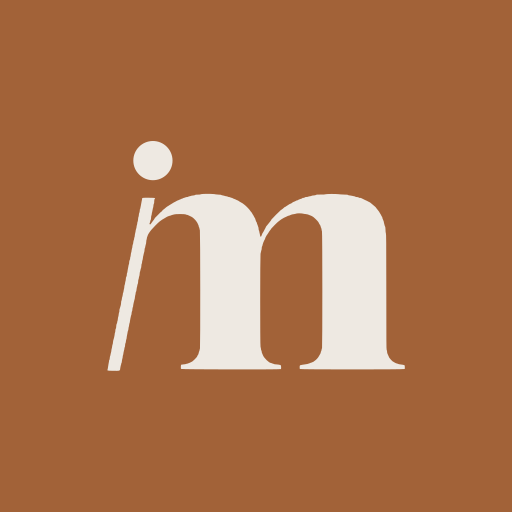
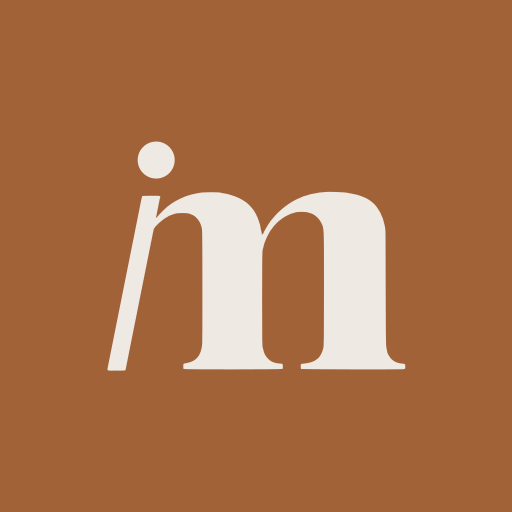
Nuovo sfondo e nuovo monogramma con la "i" più spessa
- Monogramma ritracciato dal nuovo logo (asta della "i" più spessa):
  intro, header, footer, 404, favicon, icone e anteprima social
- Centratura del wordmark sulla "m" ricalcolata per il nuovo monogramma
- Nuovo sfondo a intonaco per intro, navbar e anteprima social, con
  inquadratura centrata sulla zona chiara; file rinominato
  sfondo-intonaco.webp per evitare la cache della versione precedente

diff --git a/src/components/brand/paths.ts b/src/components/brand/paths.ts
@@ -1,10 +1,10 @@
 // File generato da scripts/build-brand.mjs a partire dal logo ufficiale. Non modificare a mano.
 export const MONOGRAM = {
-  viewBox: "0 0 380 296",
-  width: 380,
-  height: 296,
-  dot: "M 38.25 30 A 24.25 24.25 0 1 0 86.75 30 A 24.25 24.25 0 1 0 38.25 30 Z",
-  body: "M 123.9 71.3 C 122.8 71.4, 121.6 71.6, 121.2 71.8 C 120.8 72, 119.7 72.1, 117.8 72.1 C 115.5 72.1, 115 72.2, 114.5 72.6 C 114.2 72.9, 113.5 73.1, 111.9 73.2 C 110.8 73.3, 109.7 73.5, 109.5 73.7 C 109.3 73.8, 108.6 74, 107.9 74.1 C 107.2 74.2, 106.4 74.4, 106.2 74.7 C 105.9 74.9, 105.2 75.1, 104.4 75.1 C 103.5 75.2, 102.8 75.3, 102.6 75.6 C 102.3 75.8, 101.6 76, 100.9 76.1 C 100.3 76.2, 99.6 76.5, 99.5 76.7 C 99.3 76.8, 98.8 77.1, 98.2 77.2 C 97.7 77.2, 97.1 77.5, 97 77.7 C 96.8 77.8, 96.5 78, 96.3 78 C 96 78, 95.5 78.2, 95.2 78.5 C 94.9 78.7, 94.2 79, 93.7 79.1 C 93.1 79.2, 92.2 79.7, 91.5 80.1 C 90.8 80.6, 90 81.1, 89.6 81.2 C 89.2 81.2, 88.3 81.8, 87.5 82.3 C 86.7 82.8, 86 83.3, 85.9 83.3 C 85.8 83.3, 85.2 83.6, 84.6 84.1 C 83.9 84.6, 83.3 85, 83.1 85 C 83 85, 82.5 85.3, 82.1 85.6 C 81.8 86, 81.3 86.3, 81 86.3 C 80.8 86.3, 80 86.9, 79.1 87.6 C 78.3 88.4, 77.1 89.4, 76.4 89.9 C 74.5 91.2, 74.3 91.4, 74 92.1 C 73.9 92.5, 73.5 92.9, 73.1 93 C 72.8 93.1, 71 94.7, 69.3 96.6 C 67.5 98.4, 65.6 100.3, 65.1 100.8 C 64.7 101.3, 64.3 101.9, 64.3 102.1 C 64.3 102.3, 63.4 103.6, 62.3 104.9 C 61.2 106.3, 60.2 107.7, 60 108.1 C 59.5 109.2, 58.4 109.2, 58.3 108.2 C 58.2 107.8, 58.4 107.3, 58.6 107 C 58.8 106.8, 59 106.1, 59.1 105.4 C 59.2 104.7, 59.4 103.9, 59.7 103.5 C 60 103.1, 60.1 102.2, 60.2 100.8 C 60.2 99.6, 60.4 98.4, 60.6 98 C 60.8 97.7, 61 96.7, 61.1 95.8 C 61.1 94.9, 61.3 94.1, 61.5 93.9 C 61.6 93.8, 61.8 92.8, 61.9 91.8 C 62 90.7, 62.3 89.4, 62.5 88.8 C 62.8 88.2, 63.1 87, 63.1 85.8 C 63.2 84.6, 63.4 83.7, 63.7 83.3 C 64 82.8, 64.1 82, 64.1 80.3 C 64.2 78.6, 64.3 77.9, 64.6 77.5 C 65.8 76.2, 65.3 76.1, 60.2 76 C 48.6 75.8, 49 75.7, 49 78.3 C 49 78.8, 48.8 79.6, 48.6 80 C 48.4 80.5, 48.2 81.7, 48.1 82.7 C 48 83.8, 47.8 85, 47.6 85.5 C 47.4 86, 47.2 87, 47.1 87.9 C 47.1 88.7, 46.8 89.5, 46.6 89.8 C 46.4 90, 46.2 90.8, 46.2 92 C 46.1 93.2, 45.9 94.1, 45.7 94.5 C 45.4 94.9, 45.2 95.9, 45.1 97.1 C 45.1 98.2, 44.8 99.3, 44.6 99.7 C 44.4 100, 44.2 101.1, 44.1 102.6 C 44 103.9, 43.8 105.1, 43.6 105.5 C 43.4 105.8, 43.1 106.8, 43.1 107.7 C 43 108.6, 42.8 109.7, 42.6 110 C 42.5 110.3, 42.2 111.4, 42.2 112.3 C 42.1 113.3, 41.8 114.3, 41.6 114.6 C 41.5 114.9, 41.2 115.9, 41.1 116.8 C 41.1 117.8, 40.8 119, 40.6 119.4 C 40.4 119.9, 40.2 121.1, 40.1 122.1 C 40.1 123.2, 39.9 124.3, 39.7 124.7 C 39.5 125.1, 39.2 126, 39.2 126.9 C 39.1 127.7, 38.9 128.5, 38.7 128.7 C 38.6 128.9, 38.3 130, 38.2 131.1 C 38.1 132.3, 37.9 133.5, 37.6 133.8 C 37.4 134.2, 37.2 135.1, 37.1 136.2 C 37.1 137.1, 36.9 138.2, 36.6 138.7 C 36.4 139.1, 36.2 140.2, 36.1 141.2 C 36.1 142.2, 35.8 143.3, 35.6 143.8 C 35.4 144.2, 35.2 145.4, 35.1 146.6 C 35 147.7, 34.8 148.9, 34.6 149.2 C 34.4 149.5, 34.3 150.3, 34.3 150.9 C 34.3 151.7, 34.1 152.5, 33.7 153.1 C 33.3 153.9, 33.2 154.6, 33.1 156.1 C 33.1 157.2, 32.9 158.2, 32.7 158.4 C 32.5 158.6, 32.3 159.8, 32.1 161 C 31.9 162.2, 31.6 163.8, 31.4 164.6 C 31.2 165.5, 31 166.6, 31 167.2 C 31 167.8, 30.8 168.6, 30.6 168.9 C 30.4 169.3, 30.2 170.1, 30.2 171 C 30.2 172.1, 30.1 172.8, 29.6 173.7 C 29.1 174.5, 29 175.2, 29 176.4 C 29 177.3, 28.8 178.3, 28.7 178.7 C 28.5 179.1, 28.2 180.2, 28.1 181.2 C 28 182.2, 27.8 183.3, 27.6 183.6 C 27.4 183.9, 27.2 185, 27.1 186.1 C 27.1 187.1, 26.9 188.3, 26.7 188.7 C 26.5 189.1, 26.3 190.2, 26.2 191.2 C 26.1 192.3, 25.9 193.2, 25.6 193.6 C 25.4 194.1, 25.2 194.9, 25.2 196 C 25.1 197, 24.9 197.9, 24.7 198.3 C 24.5 198.6, 24.2 199.7, 24.1 200.8 C 24 201.8, 23.8 202.9, 23.6 203.2 C 23.3 203.6, 23.1 204.7, 23.1 206.2 C 23 207.5, 22.8 208.9, 22.6 209.3 C 22.5 209.6, 22.2 210.4, 22.1 211 C 22 211.6, 21.7 212.5, 21.5 213 C 21.2 213.6, 21 214.4, 21 215.5 C 21.1 216.6, 20.9 217.4, 20.6 218 C 20.4 218.4, 20.2 219.6, 20.1 220.7 C 20 221.7, 19.8 222.9, 19.6 223.2 C 19.4 223.6, 19.2 224.8, 19.1 226 C 19 227.2, 18.8 228.3, 18.6 228.6 C 18.4 228.9, 18.3 229.5, 18.3 230 C 18.3 230.5, 18 231.3, 17.7 231.9 C 17.3 232.6, 17.2 233.5, 17.1 235.1 C 17 236.7, 16.9 237.5, 16.5 238.1 C 16.1 238.7, 16 239.4, 16 240.5 C 16 241.4, 15.8 242.3, 15.6 242.8 C 15.4 243.2, 15.1 244.5, 15.1 245.6 C 15 246.7, 14.8 247.9, 14.6 248.3 C 14.4 248.7, 14.2 249.5, 14.1 250.2 C 14 250.8, 13.8 251.6, 13.6 251.9 C 13.4 252.3, 13.2 253.5, 13.1 254.7 C 13 256, 12.8 257.1, 12.6 257.4 C 12.4 257.7, 12.2 258.7, 12.1 259.6 C 12 260.5, 11.8 261.6, 11.7 262 C 11.5 262.3, 11.2 263.6, 11.1 264.8 C 11 265.9, 10.8 267.2, 10.6 267.5 C 10.5 267.8, 10.2 268.8, 10.1 269.6 C 10 270.5, 9.8 271.4, 9.6 271.7 C 9.4 272, 9.2 273.1, 9.1 274.2 C 9.1 275.5, 8.9 276.2, 8.6 276.5 C 8.3 276.8, 8.2 277.5, 8.1 278.8 C 8 279.7, 7.8 280.9, 7.6 281.4 C 7.4 281.9, 7.2 283.3, 7.1 284.5 C 7 285.7, 6.8 287.1, 6.6 287.7 C 5.8 289.9, 5.6 289.9, 12.1 290 C 22.1 290.2, 21.8 290.3, 22.1 286.6 C 22.2 285.7, 22.5 284.5, 22.6 284 C 22.8 283.6, 23.1 282.6, 23.2 281.9 C 23.2 281.2, 23.5 280.4, 23.7 280.2 C 23.9 280, 24.1 279, 24.1 277.9 C 24.2 276.8, 24.4 275.6, 24.6 275.2 C 24.9 274.8, 25.1 273.7, 25.1 272.7 C 25.2 271.7, 25.4 270.7, 25.6 270.4 C 25.7 270.1, 26 268.9, 26.1 267.6 C 26.3 266.4, 26.6 264.9, 26.8 264.4 C 27.1 263.8, 27.2 262.9, 27.2 262.4 C 27.2 261.9, 27.4 261.1, 27.7 260.7 C 27.9 260.2, 28.1 259.2, 28.1 258 C 28.2 256.8, 28.3 256.1, 28.6 255.8 C 28.8 255.5, 29 254.6, 29.1 253.4 C 29.2 252.3, 29.5 251.1, 29.7 250.8 C 29.8 250.5, 30.1 249.3, 30.1 248.2 C 30.2 247.1, 30.4 246.1, 30.5 245.9 C 30.6 245.7, 30.8 244.6, 31 243.4 C 31.1 242.2, 31.4 241, 31.6 240.7 C 31.8 240.4, 32.1 239.3, 32.2 238.2 C 32.2 237.2, 32.5 236.1, 32.6 235.7 C 32.8 235.4, 33 234.3, 33.1 233.2 C 33.2 232.2, 33.5 231.2, 33.6 231 C 33.8 230.8, 34 229.6, 34.1 228.4 C 34.2 227.1, 34.5 225.8, 34.6 225.5 C 34.8 225.1, 35 224.1, 35.1 223.2 C 35.2 222.3, 35.5 221.4, 35.7 221 C 35.9 220.7, 36.1 219.7, 36.1 218.8 C 36.2 217.7, 36.4 216.8, 36.6 216.4 C 36.9 216.1, 37.1 215.1, 37.1 213.9 C 37.2 212.7, 37.4 211.8, 37.6 211.4 C 37.9 211, 38.1 210.1, 38.1 208.9 C 38.2 207.8, 38.4 206.7, 38.6 206.3 C 38.8 205.9, 39 205, 39.1 204.3 C 39.2 203.6, 39.4 202.7, 39.6 202.2 C 39.9 201.7, 40.1 200.6, 40.2 199.3 C 40.3 198.1, 40.5 196.9, 40.6 196.6 C 40.8 196.3, 41 195.2, 41.1 194.2 C 41.2 193.1, 41.4 192.2, 41.7 192 C 41.9 191.7, 42.1 190.8, 42.2 189.5 C 42.3 188.3, 42.5 187.2, 42.6 186.9 C 42.8 186.6, 43 185.7, 43.1 184.8 C 43.2 183.9, 43.5 182.9, 43.7 182.6 C 44 182.2, 44.1 181.2, 44.2 179.8 C 44.2 178.6, 44.4 177.4, 44.6 177.1 C 44.8 176.8, 45 175.9, 45.1 175 C 45.2 174.1, 45.5 173.1, 45.7 172.7 C 45.8 172.3, 46.1 171, 46.1 169.8 C 46.2 168.5, 46.4 167.5, 46.6 167.3 C 46.8 167, 47 166.1, 47.1 165.3 C 47.2 164.4, 47.5 163.4, 47.7 163.1 C 47.9 162.8, 48.1 161.6, 48.2 160.3 C 48.2 159, 48.4 157.9, 48.7 157.5 C 48.9 157.2, 49.1 156.2, 49.1 155.4 C 49.2 154.5, 49.4 153.4, 49.6 153.1 C 49.8 152.7, 50 151.5, 50.1 150.4 C 50.2 149.3, 50.4 148.2, 50.5 147.9 C 50.7 147.7, 50.9 146.7, 51 145.8 C 51.2 144.9, 51.4 144, 51.5 143.9 C 51.8 143.5, 52.2 141.1, 52.2 139.8 C 52.2 139.2, 52.4 138.5, 52.6 138.1 C 52.8 137.8, 53.1 136.9, 53.1 136 C 53.2 135.2, 53.4 134.2, 53.6 133.9 C 53.9 133.5, 54.1 132.4, 54.2 130.7 C 54.2 129.2, 54.5 127.9, 54.7 127.6 C 54.8 127.3, 55 126.6, 55 126.1 C 55 125.5, 55.2 124.7, 55.5 124.2 C 55.7 123.8, 56 123, 56.1 122.5 C 56.2 122, 56.4 121.5, 56.6 121.3 C 56.8 121, 57.3 120.2, 57.7 119.5 C 58.1 118.7, 58.7 117.9, 59 117.6 C 59.3 117.3, 59.9 116.5, 60.4 115.8 C 61.4 114.4, 69 106.6, 70.8 105.3 C 71.4 104.9, 72.2 104.2, 72.7 103.9 C 73.1 103.5, 73.7 103.1, 74 103 C 74.4 102.9, 75.4 102.2, 76.4 101.6 C 77.3 101, 78.5 100.3, 78.9 100.1 C 79.4 99.9, 79.8 99.7, 79.9 99.5 C 79.9 99.4, 80.4 99.2, 80.8 99.1 C 81.3 99, 81.9 98.8, 82.1 98.6 C 82.4 98.5, 83.1 98.2, 83.8 98.1 C 84.4 98, 85.1 97.8, 85.3 97.6 C 85.5 97.4, 86.2 97.2, 86.9 97.1 C 87.6 97, 88.4 96.8, 88.7 96.6 C 89.5 96, 101.9 96, 102.8 96.5 C 103.1 96.7, 103.9 97, 104.6 97.1 C 105.2 97.1, 106 97.4, 106.2 97.6 C 106.4 97.8, 106.9 98, 107.3 98.1 C 107.6 98.2, 108 98.5, 108.3 98.6 C 108.5 98.8, 109 99, 109.4 99.1 C 111.1 99.5, 115.2 103.3, 116.7 105.8 C 117 106.4, 117.5 107, 117.6 107.3 C 117.8 107.5, 118 108, 118.1 108.4 C 118.2 108.8, 118.4 109.3, 118.6 109.5 C 118.8 109.7, 119 110.4, 119.1 111 C 119.1 111.6, 119.4 112.2, 119.6 112.5 C 119.8 112.7, 120 113.5, 120.1 114.2 C 120.2 114.9, 120.4 115.9, 120.6 116.4 C 121.1 117.5, 121.2 261.4, 120.7 262.3 C 120.6 262.6, 120.4 263.5, 120.2 264.3 C 120.1 265.2, 119.8 266, 119.6 266.2 C 119.5 266.5, 119.2 267.1, 119.2 267.8 C 119 269, 118.2 270.8, 117.6 271.3 C 117.4 271.4, 117.3 271.8, 117.3 272 C 117.3 273, 111.2 279, 110.2 279 C 110 279, 109.5 279.2, 109.2 279.5 C 108.8 279.8, 108.4 280, 108.2 280 C 108 280, 107.3 280.3, 106.6 280.6 C 105.9 281, 105.1 281.2, 104.7 281.2 C 104.3 281.2, 103.7 281.4, 103.3 281.6 C 102.9 281.8, 101.5 282, 100.1 282.1 C 98.8 282.2, 97.5 282.4, 97.4 282.5 C 97 282.9, 96.9 287.1, 97.2 287.7 C 97.6 288.4, 220.1 288.6, 220.8 287.9 C 221.3 287.4, 221.1 283.5, 220.6 283.1 C 220.1 282.7, 216.2 282, 214.4 282 C 213.7 282.1, 212.9 281.9, 212.7 281.8 C 212.5 281.7, 211.8 281.4, 211.1 281.2 C 210.4 281.1, 209.7 280.8, 209.4 280.6 C 209.1 280.4, 208.7 280.3, 208.4 280.3 C 206.2 280.3, 199.9 274.2, 198.6 270.8 C 198.2 269.8, 197.8 268.7, 197.6 268.4 C 197.4 268.2, 197.2 267.5, 197.1 266.8 C 197.1 266.1, 196.9 265.2, 196.6 264.8 C 196.4 264.5, 196.1 263.5, 196.1 262.5 C 196 261.6, 195.8 260.6, 195.6 260.2 C 195 259.1, 195.1 146.8, 195.6 145.3 C 195.8 144.8, 196 143.8, 196.1 143.1 C 196.2 142.4, 196.4 141.4, 196.6 141 C 196.9 140.5, 197.1 139.5, 197.1 138.3 C 197.1 137, 197.3 136.4, 197.6 136 C 197.8 135.8, 198.1 135.1, 198.1 134.4 C 198.2 133.8, 198.4 133.1, 198.6 132.7 C 198.8 132.4, 199 131.7, 199.1 131.2 C 199.2 130.7, 199.4 130.2, 199.6 130 C 199.8 129.8, 200 129.5, 200 129.3 C 200 129, 200.2 128.5, 200.5 128.2 C 200.8 127.8, 201 127.4, 201 127.3 C 201 126.6, 202.4 123.5, 203.1 122.6 C 203.9 121.6, 205.1 119.8, 206.6 117.3 C 207.1 116.5, 207.9 115.5, 208.3 115.1 C 208.7 114.7, 209 114.2, 209 114 C 209 113.7, 217.4 105.3, 217.8 105.3 C 217.9 105.3, 218.9 104.5, 220 103.6 C 221.2 102.7, 222.2 102, 222.3 102 C 222.5 102, 222.8 101.8, 223 101.7 C 223.5 101.2, 224.9 100.5, 226.8 99.7 C 227.5 99.3, 228.3 99, 228.5 98.9 C 228.7 98.8, 229.2 98.6, 229.5 98.4 C 229.8 98.2, 230.5 98, 230.9 98 C 231.3 98, 231.8 97.8, 232 97.6 C 232.2 97.4, 232.7 97.2, 233.2 97.1 C 233.7 97, 234.4 96.8, 234.6 96.6 C 234.9 96.5, 235.9 96.3, 237 96.2 C 238 96.1, 239.1 95.8, 239.6 95.6 C 240.6 95.1, 246.3 95.1, 248.1 95.6 C 248.8 95.8, 250.2 96.1, 251.3 96.1 C 252.4 96.2, 253.6 96.4, 254 96.6 C 254.4 96.8, 254.9 97, 255.1 97 C 255.2 97, 255.8 97.2, 256.3 97.5 C 256.7 97.7, 257.5 98, 257.9 98.1 C 258.4 98.2, 259 98.5, 259.2 98.7 C 259.5 99, 260 99.3, 260.2 99.3 C 260.8 99.3, 266.6 104.9, 267.2 106.1 C 267.5 106.7, 267.9 107.5, 268.1 107.9 C 268.3 108.3, 268.8 109.1, 269.2 109.7 C 269.7 110.4, 270 111, 270 111.6 C 270 112.1, 270.2 112.7, 270.5 113 C 270.7 113.4, 271 114.3, 271.1 115.2 C 271.2 116.1, 271.4 117.1, 271.6 117.4 C 272.2 118.2, 272.2 260.9, 271.7 262 C 271.5 262.3, 271.2 263.2, 271.1 264 C 271 264.8, 270.8 265.6, 270.6 265.8 C 270.4 266, 270.1 266.8, 270.1 267.4 C 270 268.2, 269.6 269, 269.1 269.7 C 268.7 270.4, 268 271.5, 267.6 272.3 C 266.8 273.9, 264.3 276.6, 262.8 277.5 C 262.3 277.8, 261.6 278.4, 261.2 278.7 C 260.8 279, 260.3 279.3, 260 279.3 C 259.8 279.3, 259.4 279.4, 259.3 279.6 C 259.1 279.8, 258.5 280, 257.9 280.1 C 257.3 280.2, 256.5 280.5, 256.1 280.8 C 255.7 281, 255.1 281.2, 254.8 281.2 C 254.6 281.2, 253.9 281.4, 253.5 281.6 C 253 281.8, 251.6 282, 250.4 282.1 C 249.1 282.2, 247.7 282.4, 247.1 282.6 C 246.6 282.8, 245.8 283, 245.3 283 C 244.8 283, 244.4 283.2, 244.3 283.5 C 243.9 284.1, 243.9 287.2, 244.2 287.8 C 244.7 288.5, 373.5 288.5, 374 287.8 C 374.2 287.4, 374.1 283.5, 373.9 283.3 C 373.5 282.9, 370.5 282.2, 368.5 282.1 C 367.5 282, 366.4 281.8, 366.1 281.6 C 365.9 281.4, 365.1 281.2, 364.5 281.1 C 363.9 281, 363.1 280.7, 362.8 280.5 C 362.5 280.2, 362.1 280, 361.9 280 C 361.8 280, 361.2 279.7, 360.6 279.3 C 360 278.8, 359.4 278.5, 359.2 278.5 C 358.9 278.5, 355.3 274.7, 355.1 274.1 C 355 273.9, 354.8 273.5, 354.6 273.3 C 354.5 273, 354.2 272.5, 354.1 272.1 C 354 271.7, 353.8 271.2, 353.6 271 C 353.5 270.8, 353.2 270.3, 353.1 269.9 C 353 269.5, 352.8 268.9, 352.6 268.7 C 352.4 268.5, 352.2 267.6, 352.2 266.7 C 352.1 265.8, 351.9 264.5, 351.6 263.8 C 351.3 262.7, 351.2 256.2, 351.2 192 C 351.1 127.3, 351.1 121.3, 350.7 120.1 C 350.4 119.3, 350.2 117.5, 350.2 115.5 C 350.1 113.1, 350 112.1, 349.7 111.6 C 349.4 111.3, 349.2 110.4, 349 109.7 C 348.9 109, 348.6 107.9, 348.4 107.4 C 348.2 106.8, 348 106, 348 105.5 C 348 105, 347.8 104.4, 347.6 104.2 C 347.4 104.1, 347.2 103.5, 347.1 103 C 347 102.4, 346.8 101.9, 346.6 101.7 C 346.4 101.6, 346.3 101.1, 346.3 100.6 C 346.3 100.1, 346 99.5, 345.6 99.1 C 345.3 98.7, 345 98.3, 345 98 C 345 97.8, 344.8 97.5, 344.7 97.3 C 344.5 97.1, 344 96.3, 343.6 95.5 C 342.6 93.6, 341.7 92.3, 340.9 91.4 C 340.5 91, 339.8 90.1, 339.3 89.4 C 338.1 87.6, 338.1 87.5, 335.1 85.1 C 333.6 83.9, 332.3 82.8, 332.1 82.6 C 331.7 82.1, 330.4 81.3, 329.5 81 C 329.1 80.9, 328.2 80.4, 327.6 80 C 327 79.6, 326.4 79.3, 326.2 79.3 C 326.1 79.3, 325.6 79, 325 78.8 C 324.5 78.5, 323.5 78, 322.6 77.6 C 321.8 77.3, 321 76.9, 320.8 76.7 C 319.9 76.2, 319.1 76, 318.5 76.1 C 318 76.2, 317.6 76.1, 317.1 75.7 C 316.6 75.3, 316.1 75.2, 315 75.1 C 314 75.1, 313.4 75, 313 74.7 C 312.8 74.4, 312 74.2, 311.3 74.1 C 310.7 74, 309.6 73.8, 309 73.6 C 308.4 73.4, 307.1 73.2, 306.2 73.1 C 305 73.1, 304.3 72.9, 304 72.6 C 303.5 72.2, 302.7 72.1, 298.4 72 C 295.6 71.9, 292.5 71.7, 291.5 71.5 C 288.2 71.1, 276.7 71.2, 275.6 71.7 C 274.8 72, 273.9 72.1, 269.8 72 C 265.3 72, 264.9 72, 264.2 72.5 C 263.6 72.8, 262.8 73, 261.3 73.1 C 260 73.2, 259.1 73.3, 258.7 73.6 C 258.4 73.8, 257.4 74.1, 256.5 74.1 C 255.7 74.2, 254.8 74.4, 254.5 74.6 C 254.1 74.9, 253.4 75, 252.5 75 C 251.4 75, 250.9 75.1, 250.2 75.6 C 249.6 76.1, 249.2 76.2, 248.6 76.1 C 248 76, 247.7 76.1, 247.3 76.5 C 247 76.8, 246.4 77.1, 245.9 77.2 C 245.5 77.2, 244.9 77.5, 244.6 77.6 C 244.3 77.8, 243.8 78, 243.3 78.1 C 242.9 78.2, 242.4 78.4, 242.2 78.6 C 242.1 78.8, 241.5 79.1, 241 79.2 C 240.4 79.2, 239.9 79.4, 239.9 79.5 C 239.7 79.7, 237.3 80.9, 236.2 81.2 C 235.8 81.4, 235 81.8, 234.5 82.3 C 234.1 82.7, 233.4 83.1, 233 83.2 C 232.2 83.4, 231.1 84, 230.4 84.5 C 230.1 84.8, 229.3 85.3, 228.7 85.6 C 228.1 85.9, 227.3 86.5, 227 86.7 C 226.7 87, 226.3 87.3, 226 87.3 C 225.8 87.3, 225.3 87.5, 225 87.9 C 224.1 88.8, 221.4 91, 221.1 91 C 220.9 91, 220.1 91.7, 219.3 92.6 C 218.5 93.4, 216.4 95.5, 214.6 97.1 C 212.9 98.8, 211.3 100.5, 211 100.9 C 210.7 101.3, 210.2 101.8, 209.9 102 C 209.5 102.2, 209.2 102.6, 209.1 103 C 209 103.4, 208.2 104.5, 207.4 105.5 C 206.5 106.5, 205.6 107.6, 205.4 108 C 205.2 108.4, 204.4 109.4, 203.6 110.2 C 202.9 110.9, 202.3 111.8, 202.3 112 C 202.3 112.2, 202 112.7, 201.8 113.1 C 201.5 113.4, 201.3 113.9, 201.3 114 C 201.3 114.2, 201.1 114.7, 200.8 115 C 200.6 115.3, 200.1 116.1, 199.9 116.8 C 199.6 117.4, 199.2 118.1, 199 118.3 C 198.5 118.7, 197.3 121.2, 197.1 122.1 C 196.6 124.6, 195 124.8, 195 122.3 C 195 121.8, 194.8 121.2, 194.7 120.8 C 194.5 120.4, 194.3 119.4, 194.2 118.6 C 194.1 117.7, 193.9 116.7, 193.6 116.4 C 193.4 116, 193.2 115.2, 193.2 114.3 C 193.2 113.3, 193 112.5, 192.6 111.6 C 192.3 110.9, 192 110.1, 192 109.8 C 192 109.5, 191.8 109.2, 191.7 109 C 191.5 108.9, 191.3 108.2, 191.2 107.6 C 191.1 106.9, 190.9 106.3, 190.7 106.2 C 190.5 106.1, 190.2 105.6, 190.1 105.2 C 190 104.7, 189.8 104.1, 189.6 103.8 C 189.4 103.4, 189.2 102.7, 189.1 102.2 C 189 101.7, 188.9 101.3, 188.7 101.3 C 188.6 101.3, 188.1 100.4, 187.6 99.4 C 187.2 98.4, 186.4 97.1, 186 96.6 C 185.6 96, 185.2 95.4, 185.2 95.1 C 185.1 94.8, 184.6 94.2, 184.2 93.7 C 183.7 93.3, 183.1 92.4, 182.7 91.8 C 181.9 90.4, 177.3 85.7, 175.7 84.6 C 175.1 84.2, 174.1 83.5, 173.5 82.9 C 172.8 82.4, 172.1 82, 171.9 82 C 171.7 82, 171.5 81.9, 171.4 81.7 C 171.3 81.6, 170.8 81.3, 170.3 81.1 C 169.8 80.9, 169 80.4, 168.6 80 C 168.2 79.6, 167.5 79.2, 166.9 79.1 C 166.4 79, 165.9 78.8, 165.7 78.6 C 165.6 78.4, 165.3 78.2, 165.2 78.2 C 165 78.2, 164.3 78, 163.6 77.6 C 162.9 77.3, 162.2 77, 162 77 C 161.9 77, 161.4 76.8, 161.1 76.5 C 160.7 76.2, 160.1 76, 159.7 76 C 159.3 76, 158.7 75.8, 158.5 75.6 C 158.2 75.4, 157.4 75.1, 156.7 75.1 C 156 75, 155.2 74.8, 155 74.6 C 154.8 74.4, 153.9 74.2, 153.1 74.1 C 152.3 74, 151.4 73.8, 151.1 73.6 C 150.8 73.4, 149.9 73.2, 149.1 73.1 C 148.3 73, 147.4 72.8, 147.2 72.6 C 146.9 72.3, 146 72.1, 143.9 72.1 C 142.3 72, 140.8 71.9, 140.5 71.8 C 139.6 71.2, 128.2 70.9, 123.9 71.3",
+  viewBox: "0 0 357 278",
+  width: 357,
+  height: 278,
+  dot: "M 41 27.5 A 21.5 21.5 0 1 0 84 27.5 A 21.5 21.5 0 1 0 41 27.5 Z",
+  body: "M 259.4 64.6 C 259.2 64.7, 257.4 64.8, 255.2 65 C 253 65.1, 250.8 65.4, 250.3 65.6 C 249.8 65.8, 248.7 66, 247.9 66.1 C 247.1 66.2, 245.7 66.4, 245 66.6 C 244.2 66.8, 243.2 67, 242.8 67 C 242.4 67, 241.7 67.2, 241.1 67.4 C 240.2 67.8, 239.7 67.9, 235.9 69 C 234.2 69.4, 232.5 70, 231.7 70.5 C 231.5 70.6, 230.6 71, 229.6 71.4 C 218.5 75.8, 206.1 85.2, 198 95.3 C 196.9 96.7, 195.8 98, 195.6 98.1 C 195.5 98.3, 195 98.9, 194.7 99.5 C 194.3 100.1, 193.6 101.1, 193.1 101.8 C 192.7 102.4, 192.3 103, 192.3 103.1 C 192.3 103.2, 192 103.7, 191.6 104.1 C 191.3 104.6, 190.6 105.8, 190 106.9 C 189.4 108, 188.8 109, 188.6 109.3 C 188.2 109.7, 187.3 111.8, 187.3 112.2 C 187.3 112.6, 185.7 114.3, 185.5 114.1 C 185.4 114.1, 185.2 113.3, 185.1 112.3 C 185.1 111.4, 184.8 110.4, 184.7 110.2 C 184.5 109.9, 184.3 108.8, 184.1 107.8 C 183.5 103.8, 183 101.6, 182.6 100.9 C 182.4 100.5, 181.9 99, 181.5 97.6 C 181.1 96.2, 180.6 94.9, 180.5 94.9 C 180.4 94.8, 180.3 94.5, 180.3 94.3 C 180.3 94, 180 93.5, 179.8 93.2 C 179.5 92.9, 179.2 92.3, 179.1 91.9 C 179.1 91.4, 178.6 90.5, 178.2 89.9 C 177.7 89.2, 177.1 88.1, 176.8 87.5 C 176.5 86.9, 176 86.2, 175.8 85.9 C 175.5 85.6, 175 84.9, 174.6 84.3 C 173.2 82.2, 166.9 76, 166.1 76 C 166.1 76, 165.4 75.6, 164.7 75.1 C 164 74.6, 162.8 73.9, 162 73.4 C 161.1 73, 159.9 72.3, 159.2 71.9 C 158.5 71.6, 157.7 71.2, 157.4 71.1 C 157.1 71, 156.5 70.8, 156.1 70.6 C 153.7 69.5, 153 69.2, 152.1 69 C 151.6 68.9, 150.7 68.6, 150.1 68.4 C 149.6 68.2, 148.9 68, 148.7 68 C 148.4 68, 148 67.8, 147.7 67.6 C 147.1 67.3, 144.8 66.8, 140.6 66.1 C 139.5 66, 138.3 65.7, 137.9 65.5 C 135.6 64.6, 116.3 64.7, 113.1 65.6 C 112.4 65.8, 111.3 66, 110.5 66.1 C 109.7 66.2, 108.7 66.4, 108.2 66.5 C 107.7 66.7, 106.5 66.9, 105.5 67.1 C 103.8 67.4, 102.6 67.8, 100.4 68.5 C 100 68.7, 99.2 68.9, 98.6 69 C 97.4 69.3, 95.1 70.2, 94.4 70.7 C 94.1 70.9, 93.7 71, 93.5 71 C 93.3 71, 91.5 71.8, 89.6 72.8 C 83 76.1, 81.5 77.1, 75.3 81.8 C 73.3 83.4, 66.9 89.7, 65.2 91.8 C 62.4 95.3, 61.7 95.5, 62.6 92.8 C 62.8 92.2, 63.1 91, 63.2 90.1 C 63.2 89.3, 63.5 88.2, 63.6 87.7 C 63.8 87.2, 64.1 86.1, 64.1 85.2 C 64.2 84.3, 64.5 83.2, 64.6 82.7 C 64.8 82.2, 65.1 81.1, 65.1 80.2 C 65.2 79.3, 65.5 78.2, 65.6 77.7 C 65.8 77.2, 66 76.2, 66.1 75.3 C 66.2 74.5, 66.4 73.4, 66.6 72.8 C 67.9 68.7, 68.5 69, 56.7 69 C 51.3 69, 46.7 69.1, 46.6 69.2 C 46.2 69.5, 45.3 72.3, 45.1 74.1 C 45 75, 44.8 76, 44.6 76.5 C 44.5 77, 44.2 78.1, 44.1 79 C 44 79.9, 43.8 81, 43.6 81.5 C 43.5 82, 43.2 83.1, 43.1 84 C 43 84.9, 42.8 86, 42.6 86.5 C 42.5 87, 42.2 88.1, 42.1 89 C 42 89.9, 41.8 91, 41.6 91.5 C 41.5 92, 41.2 93.1, 41.1 94 C 41 94.9, 40.8 96, 40.6 96.5 C 40.5 97, 40.2 98.1, 40.1 99 C 40 99.9, 39.8 101, 39.6 101.5 C 39.5 102, 39.2 103.1, 39.1 104 C 39 104.9, 38.8 106, 38.6 106.5 C 38.5 107, 38.2 108.1, 38.1 109 C 38 109.9, 37.8 110.9, 37.7 111.3 C 37.6 111.6, 37.3 112.8, 37.1 113.9 C 36.7 116.2, 36.2 119.1, 35.6 121.5 C 35.4 122.4, 35.1 123.7, 35 124.5 C 34.7 126.3, 34.1 129.4, 33.6 131.5 C 33.4 132.4, 33.1 133.7, 33 134.5 C 32.7 136.3, 32.1 139.4, 31.6 141.5 C 31.4 142.4, 31.1 143.7, 31 144.5 C 30.7 146.3, 30.1 149.4, 29.6 151.5 C 29.4 152.4, 29.1 153.7, 29 154.5 C 28.7 156.3, 28.1 159.4, 27.6 161.5 C 27.4 162.4, 27.1 163.7, 27 164.5 C 26.7 166.3, 26.1 169.4, 25.6 171.5 C 25.4 172.4, 25.1 173.7, 25 174.5 C 24.7 176.3, 24.1 179.4, 23.6 181.5 C 23.4 182.4, 23.1 183.7, 23 184.5 C 22.7 186.3, 22.1 189.4, 21.6 191.5 C 21.4 192.4, 21.1 193.7, 21 194.5 C 20.7 196.3, 20.1 199.4, 19.6 201.5 C 19.4 202.4, 19.1 203.7, 19 204.5 C 18.7 206.3, 18.1 209.4, 17.6 211.5 C 17.4 212.4, 17.1 213.7, 17 214.5 C 16.7 216.3, 16.1 219.4, 15.6 221.5 C 15.4 222.4, 15.1 223.7, 15 224.5 C 14.7 226.3, 14.1 229.4, 13.6 231.5 C 13.4 232.4, 13.1 233.7, 13 234.5 C 12.7 236.3, 12.1 239.4, 11.6 241.5 C 11.4 242.4, 11.1 243.7, 11 244.5 C 10.7 246.3, 10.1 249.4, 9.6 251.5 C 9.4 252.4, 9.1 253.7, 9 254.5 C 8.7 256.3, 8.1 259.4, 7.6 261.5 C 7.4 262.4, 7.1 263.7, 7 264.5 C 6.9 265.3, 6.6 266.7, 6.4 267.6 C 5.3 272.7, 4.5 272.3, 16.2 272.2 C 27.4 272.2, 26.8 272.3, 27.1 270.5 C 27.2 269.7, 27.4 268.6, 27.6 267.9 C 27.8 267.2, 28.1 266, 28.2 265.1 C 28.2 264.3, 28.5 263.2, 28.6 262.7 C 28.8 262.2, 29.1 261.1, 29.1 260.2 C 29.2 259.3, 29.5 258.2, 29.6 257.7 C 29.8 257.2, 30.1 256.1, 30.1 255.2 C 30.2 254.3, 30.5 253.2, 30.6 252.7 C 30.8 252.2, 31.1 251.1, 31.1 250.2 C 31.2 249.3, 31.5 248.2, 31.6 247.7 C 31.8 247.2, 32.1 246.1, 32.1 245.2 C 32.2 244.3, 32.5 243.2, 32.6 242.7 C 32.8 242.2, 33.1 241.1, 33.1 240.2 C 33.2 239.3, 33.5 238.2, 33.6 237.7 C 33.8 237.2, 34.1 236.1, 34.1 235.2 C 34.2 234.3, 34.5 233.2, 34.6 232.7 C 34.8 232.2, 35.1 231.1, 35.1 230.2 C 35.2 229.3, 35.5 228.2, 35.6 227.7 C 35.8 227.2, 36.1 226.1, 36.1 225.2 C 36.2 224.3, 36.5 223.2, 36.6 222.7 C 36.8 222.2, 37.1 221.1, 37.1 220.2 C 37.2 219.3, 37.5 218.2, 37.6 217.7 C 37.8 217.2, 38.1 216.1, 38.1 215.2 C 38.2 214.3, 38.5 213.2, 38.6 212.7 C 38.8 212.2, 39.1 211.1, 39.1 210.2 C 39.2 209.3, 39.5 208.2, 39.6 207.7 C 39.8 207.2, 40.1 206.1, 40.1 205.2 C 40.2 204.3, 40.5 203.2, 40.6 202.7 C 40.8 202.2, 41.1 201.1, 41.1 200.2 C 41.2 199.3, 41.5 198.2, 41.6 197.7 C 41.8 197.2, 42.1 196.1, 42.1 195.2 C 42.2 194.3, 42.5 193.2, 42.6 192.7 C 42.8 192.2, 43.1 191.1, 43.1 190.2 C 43.2 189.3, 43.5 188.2, 43.6 187.7 C 43.8 187.2, 44.1 186.1, 44.1 185.2 C 44.2 184.3, 44.5 183.2, 44.6 182.7 C 44.8 182.2, 45.1 181.1, 45.1 180.2 C 45.2 179.3, 45.5 178.2, 45.6 177.7 C 45.8 177.2, 46.1 176.1, 46.1 175.2 C 46.2 174.3, 46.5 173.2, 46.6 172.7 C 46.8 172.2, 47.1 171.1, 47.1 170.2 C 47.2 169.3, 47.5 168.2, 47.6 167.7 C 47.8 167.2, 48.1 166.1, 48.1 165.2 C 48.2 164.3, 48.5 163.2, 48.6 162.7 C 48.8 162.2, 49.1 161.1, 49.1 160.2 C 49.2 159.3, 49.5 158.2, 49.6 157.7 C 49.8 157.2, 50.1 156.1, 50.1 155.2 C 50.2 154.3, 50.5 153.2, 50.6 152.7 C 50.8 152.2, 51.1 151.1, 51.1 150.2 C 51.2 149.3, 51.5 148.2, 51.6 147.7 C 51.8 147.2, 52.1 146.1, 52.1 145.2 C 52.2 144.3, 52.5 143.2, 52.6 142.7 C 52.8 142.2, 53.1 141.1, 53.1 140.2 C 53.2 139.3, 53.5 138.2, 53.6 137.7 C 53.8 137.2, 54.1 136.1, 54.1 135.2 C 54.2 134.3, 54.5 133.2, 54.6 132.7 C 54.8 132.2, 55.1 131.1, 55.1 130.2 C 55.2 129.3, 55.5 128.2, 55.6 127.7 C 55.8 127.2, 56.1 126.1, 56.1 125.2 C 56.2 124.3, 56.5 123.2, 56.6 122.7 C 56.8 122.2, 57.1 121.1, 57.1 120.2 C 57.2 119.3, 57.5 118.2, 57.6 117.7 C 57.8 117.2, 58.1 116.1, 58.1 115.2 C 58.2 114.3, 58.5 113.2, 58.6 112.7 C 58.8 112.2, 59.1 111.1, 59.2 110.2 C 59.2 109.3, 59.6 108.1, 59.9 107.4 C 61.3 104.1, 70.3 96.1, 75.4 93.6 C 76.1 93.2, 76.8 92.8, 77 92.6 C 77.4 92.3, 79.1 91.6, 80.6 91.2 C 81.1 91.1, 81.8 90.8, 82.1 90.6 C 82.4 90.5, 83 90.2, 83.5 90.1 C 84 90, 84.9 89.8, 85.5 89.6 C 86.4 89.3, 87.9 89.2, 92.6 89.1 C 99.7 89.1, 100.4 89.3, 105.3 91.6 C 109 93.4, 112.9 98.2, 114.3 102.6 C 116.3 108.8, 116.1 100.6, 116.2 173.3 C 116.2 209.7, 116.2 239.3, 116 240.9 C 114.9 254.5, 109.2 261.5, 97.5 263.5 C 93.8 264.2, 94 263.9, 94 267.3 C 94 269.8, 94 270, 94.6 270.3 C 95.6 271, 208.5 270.9, 209.2 270.2 C 209.8 269.7, 209.8 269.5, 209.7 267.2 C 209.6 264.2, 209.6 264.2, 206.6 264 C 199.5 263.6, 195.1 261.6, 191.5 257.3 C 189.2 254.6, 187.9 252, 187.1 248.4 C 187 247.5, 186.7 246.6, 186.6 246.4 C 185.7 244.8, 185.6 240.1, 185.6 189.4 C 185.6 138, 185.7 132.7, 186.6 130.5 C 186.8 130, 187.1 129, 187.2 128.3 C 187.7 125.5, 188.5 123, 189.8 120.4 C 190 119.8, 190.3 119.2, 190.3 119.1 C 190.3 118.5, 195.1 109.4, 195.7 109 C 195.8 108.9, 196.3 108.3, 196.7 107.7 C 199.6 103.2, 204.9 98, 209.5 95 C 212.5 93, 213.2 92.6, 214.8 91.9 C 215.5 91.5, 216.6 91, 217.1 90.8 C 218.8 89.9, 220.6 89.3, 221.7 89.2 C 222.3 89.1, 223.1 88.8, 223.5 88.6 C 225.9 87.4, 237.1 87.4, 239.5 88.6 C 239.9 88.8, 240.7 89.1, 241.3 89.2 C 245.9 89.9, 251.9 95.2, 254.5 100.8 C 257.6 107.4, 257.5 103.8, 257.5 176.6 C 257.5 236.1, 257.4 243.5, 256.6 246.4 C 256.4 247.1, 256.2 248, 256 248.5 C 255.1 251.8, 253 255.6, 250.9 257.6 C 249.7 258.8, 246.5 261, 246.1 261 C 246 261, 245.5 261.2, 245.1 261.4 C 242.7 262.6, 238.6 263.6, 234.3 264 C 231.9 264.2, 231 264.4, 230.8 264.7 C 230.3 265.4, 230.4 269.8, 230.9 270.3 C 231.4 270.7, 341.1 271, 348.3 270.6 C 352 270.4, 352 270.4, 352 267.5 C 352 264.5, 351.8 264.4, 349.2 264.1 C 342.3 263.6, 338 261.5, 334.5 257.2 C 333 255.2, 331.3 252.2, 331.1 250.9 C 331 250.3, 330.8 249.3, 330.6 248.6 C 330.4 247.9, 330.2 246.5, 330.1 245.5 C 330 244.5, 329.8 243.2, 329.7 242.8 C 329.5 242.1, 329.3 224.2, 329.2 175.8 C 329.1 114.3, 329.1 109.4, 328.7 107.1 C 328.4 105.8, 328.1 104.1, 328 103.4 C 327.9 102.7, 327.7 101.8, 327.5 101.4 C 327.4 101, 327.1 99.9, 326.9 99 C 326.7 98.1, 326.4 96.9, 326.2 96.4 C 326 95.4, 325.3 93.8, 324.6 92.5 C 324.4 92.1, 324.2 91.6, 324.2 91.5 C 324.2 91.3, 323.8 90.4, 323.4 89.5 C 322.9 88.6, 322.4 87.6, 322.2 87.3 C 321.9 86.6, 319.6 83.3, 318.4 81.5 C 317 79.6, 315.3 77.9, 313.5 76.5 C 312.5 75.7, 311.5 74.9, 311.2 74.7 C 311 74.5, 310.3 74, 309.6 73.6 C 308.9 73.3, 308.2 72.8, 308 72.6 C 307.4 72.1, 300.7 69.2, 299.6 69 C 298.7 68.8, 297 68.3, 295.4 67.7 C 294.5 67.4, 290.4 66.6, 287.5 66.1 C 286.3 66, 285 65.7, 284.6 65.5 C 283 64.9, 260.9 64.1, 259.4 64.6",
 } as const;
 
 export const WORDMARK = {

diff --git a/src/app/globals.css b/src/app/globals.css
@@ -6,6 +6,8 @@
    ========================================================================= */
 
 :root {
+  /* Inquadratura dello sfondo materico, identica per intro e navbar */
+  --materico-pos: 50% 45%;
   /* Velatura dello sfondo materico (intro e navbar) */
   --materico-veil:
     linear-gradient(to bottom, rgba(64, 46, 35, 0.28), rgba(64, 46, 35, 0) 22%),
@@ -259,11 +261,11 @@ address {
   flex-shrink: 0;
 }
 /* Il wordmark è centrato sulla "m", non sull'intero monogramma (che include il punto della "i"):
-   il centro della "m" è più in basso del centro dell'SVG del 10,95% della sua altezza. */
+   il centro della "m" è più in basso del centro dell'SVG del 10,52% della sua altezza. */
 .lockup-wordmark {
   width: 180px;
   height: auto;
-  transform: translateY(calc(var(--mono-h) * 0.1095));
+  transform: translateY(calc(var(--mono-h) * 0.1052));
 }
 .lockup--light {
   color: var(--paper);
@@ -309,9 +311,9 @@ address {
   height: 100lvh;
   z-index: -1;
   background-color: var(--rust);
-  background-image: var(--materico-veil), url("/images/sfondo-materico.webp");
+  background-image: var(--materico-veil), url("/images/sfondo-intonaco.webp");
   background-size: auto, auto, cover;
-  background-position: 0 0, 0 0, 62% 35%;
+  background-position: 0 0, 0 0, var(--materico-pos);
   background-repeat: no-repeat;
   clip-path: inset(0 0 calc(100% - var(--header-h)) 0);
   pointer-events: none;
@@ -465,7 +467,7 @@ address {
 }
 .intro-bg img {
   object-fit: cover;
-  object-position: 62% 35%;
+  object-position: var(--materico-pos);
 }
 .intro-bg::after {
   content: "";

diff --git a/src/components/home/IntroHero.tsx b/src/components/home/IntroHero.tsx
@@ -11,7 +11,7 @@ export function IntroHero() {
     <section id="intro" className="intro" aria-label="Marianna Interiors — Architettura e percezione">
       <div className="intro-bg" aria-hidden="true">
         <Image
-          src="/images/sfondo-materico.webp"
+          src="/images/sfondo-intonaco.webp"
           alt=""
           fill
           preload
